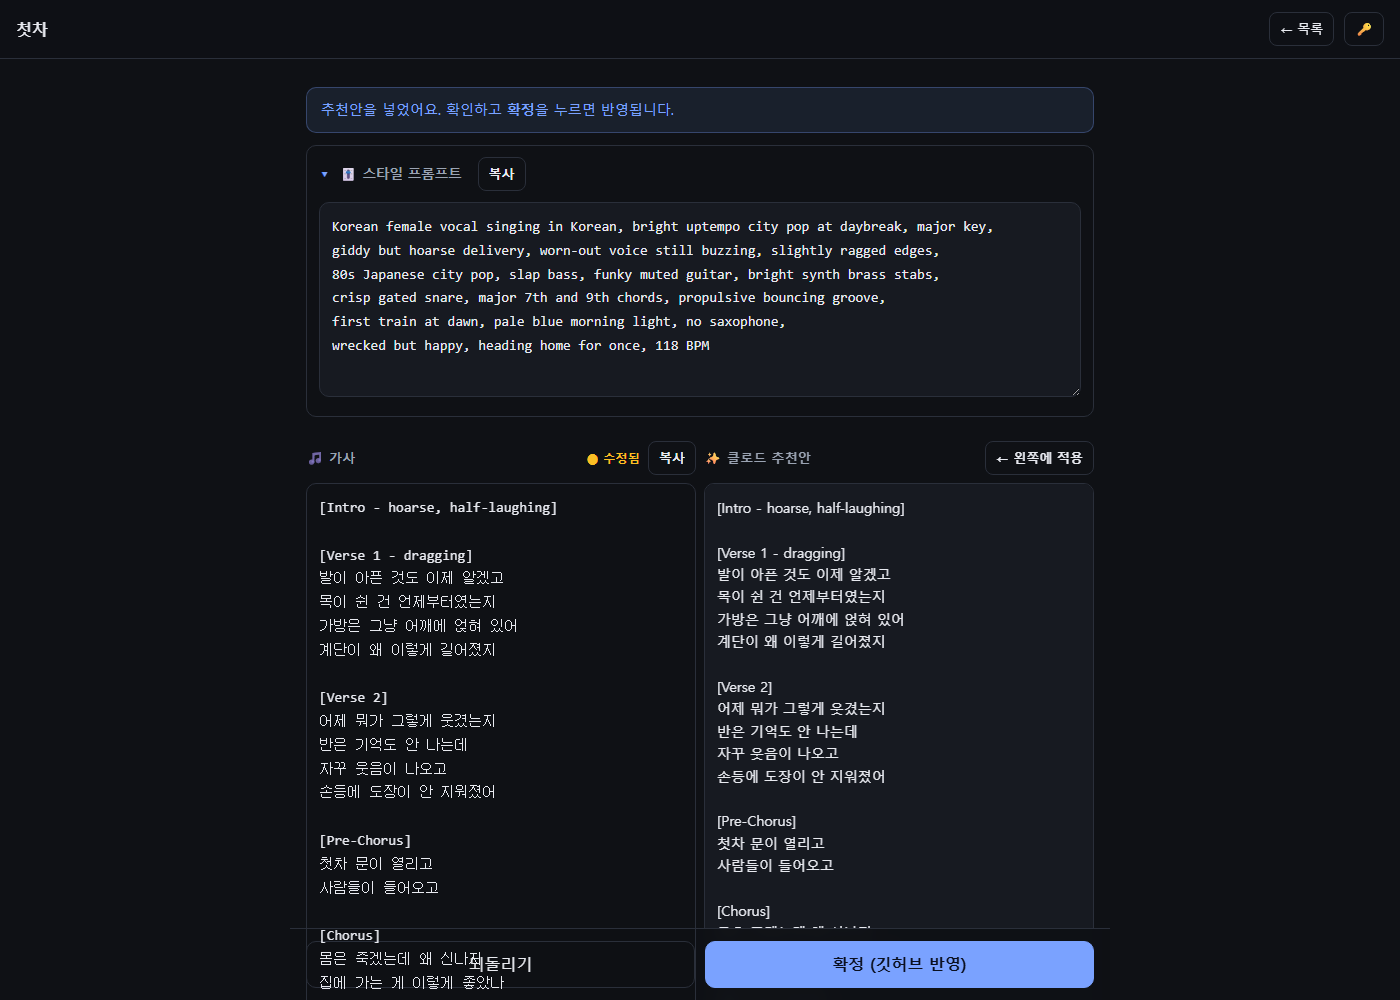
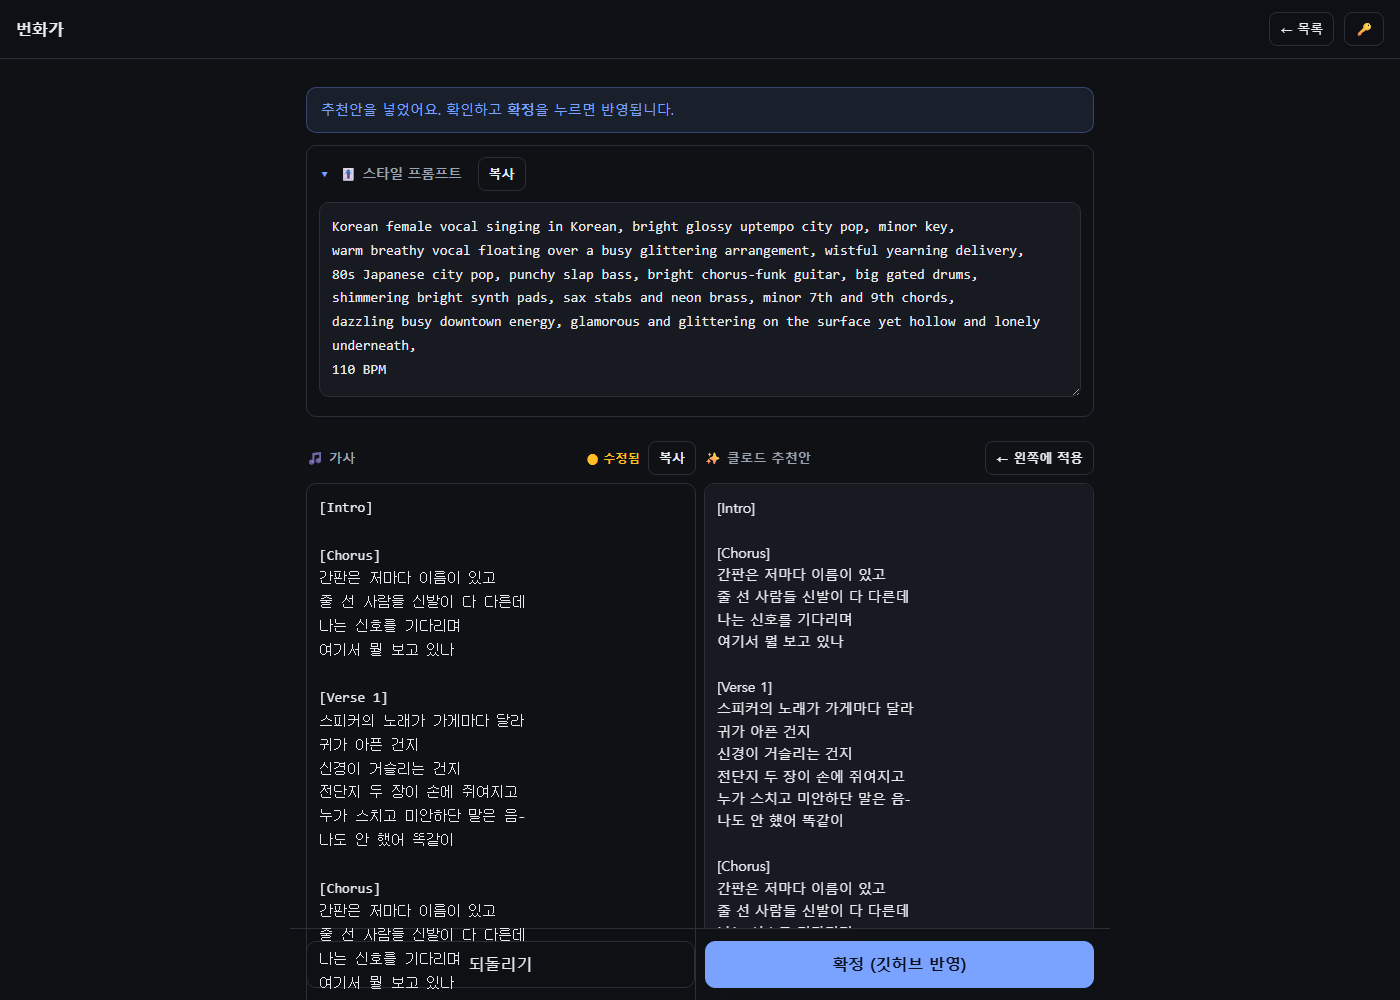
문서 뷰어에 마크다운 렌더러 — 표를 진짜 표로 그린다
원문을 그대로 뿌리고 있어서 표가 파이프 범벅으로 보였다. 폰에서 문서를 열면
읽을 수가 없었다. 우리 문서가 실제로 쓰는 문법만 직접 그린다 — 표·제목·인용·
목록·굵게·취소선·코드펜스·링크. 외부 라이브러리 없음.

보안: 무조건 escHtml 을 먼저 통과시킨 뒤 서식을 입힌다. 문서 안의 태그가
실행되면 안 된다. <br> 만 화이트리스트로 되살린다(표 안 줄바꿈용).
테스트에 <script>window.__pwned=1</script> 를 심어 실행 안 되는 것까지 확인.

표 폭 처리: width:100% 로 두면 6칸짜리 표가 폰 폭에 우겨넣어져 글자가 세로로
쪼개진다. width:max-content + min-width:100% 로 바꿔 내용에 맞춰 늘리고
넘치면 가로로 밀게 했다. 셀은 max-width:26ch 로 캡. 헤더는 sticky.

test_list_ui.py 확장: 표가 <table>/<th>/<td> 로 렌더되는지, 파이프와 별표가
화면에 안 새어나오는지, 인용·목록·제목 태그, script 미실행까지 검증.
(이전 패치 스크립트가 치환 성공을 assert 안 해서 픽스처가 안 바뀐 채
'통과'로 보였던 것도 이번에 잡음 — 직접 편집으로 교체)

회귀: 목록·렌더러 / 비교뷰 / 표절 오버레이 전부 통과, 갤러리 45건 통과

diff --git a/index.html b/index.html
@@ -45,8 +45,35 @@
   .listsep{display:flex;align-items:baseline;gap:8px;margin:26px 0 12px;
     padding-top:16px;border-top:1px solid var(--line);font-size:13px;color:var(--dim)}
   .listsep span{font-size:11px;opacity:.65}
-  .docbody{white-space:pre-wrap;word-break:break-word;font-size:14px;line-height:1.75;
-    background:var(--panel);border:1px solid var(--line);border-radius:14px;padding:16px}
+  .docbody{word-break:break-word;font-size:14px;line-height:1.75;
+    background:var(--panel);border:1px solid var(--line);border-radius:14px;padding:16px 14px}
+  .docbody h1,.docbody h2,.docbody h3,.docbody h4{line-height:1.4;margin:22px 0 10px}
+  .docbody h1{font-size:19px;border-bottom:1px solid var(--line);padding-bottom:8px}
+  .docbody h2{font-size:17px;border-bottom:1px solid var(--line);padding-bottom:6px}
+  .docbody h3{font-size:15px} .docbody h4{font-size:14px;color:var(--dim)}
+  .docbody>*:first-child{margin-top:0}
+  .docbody p{margin:10px 0}
+  .docbody ul,.docbody ol{margin:10px 0;padding-left:22px}
+  .docbody li{margin:4px 0}
+  .docbody hr{border:0;border-top:1px solid var(--line);margin:20px 0}
+  .docbody blockquote{margin:12px 0;padding:8px 12px;border-left:3px solid #3b4a63;
+    background:#12161d;border-radius:0 8px 8px 0;color:var(--dim)}
+  .docbody code{background:#12161d;border:1px solid var(--line);border-radius:5px;
+    padding:1px 5px;font-size:12.5px}
+  .docbody .mdcode{background:#0e1218;border:1px solid var(--line);border-radius:10px;
+    padding:12px;overflow-x:auto;font-size:12.5px;line-height:1.6;white-space:pre}
+  .docbody del{opacity:.5}
+  /* 표가 이 뷰어의 핵심 — 폰에서 좁으면 가로로 밀어 본다 */
+  .tablewrap{overflow-x:auto;margin:14px 0;border:1px solid var(--line);border-radius:10px;
+    -webkit-overflow-scrolling:touch}
+  /* width:100% 로 두면 6칸짜리 표가 폰 폭에 우겨넣어져 못 읽는다.
+     max-content 로 내용에 맞춰 늘리고 넘치면 가로로 민다. 좁은 표는 min-width 가 채운다. */
+  .docbody table{border-collapse:collapse;width:max-content;min-width:100%;font-size:13px}
+  .docbody th,.docbody td{border:1px solid var(--line);padding:8px 10px;
+    text-align:left;vertical-align:top;line-height:1.55;max-width:26ch}
+  .docbody th{background:#141a23;font-weight:600;white-space:nowrap;
+    position:sticky;top:0}
+  .docbody tbody tr:nth-child(even){background:#0f131a}
   .lbl{display:flex;align-items:center;gap:8px;margin:18px 0 8px;font-size:13px;
     color:var(--dim);font-weight:700;letter-spacing:.02em}
   .lbl .sp{flex:1}
@@ -173,7 +200,7 @@
   <!-- 문서 읽기 전용 -->
   <section id="viewDoc" class="hide">
     <div class="msg" id="docMsg"></div>
-    <pre id="docText" class="docbody"></pre>
+    <div id="docText" class="docbody"></div>
   </section>
 
   <!-- 편집 -->
@@ -239,6 +266,73 @@ function show(view){
   $('#btnBack').style.display = (view==='viewEdit'||view==='viewDoc') ? '' : 'none';
 }
 
+/* ---------- 마크다운 렌더 (문서 보기 전용) ----------
+   원문을 그대로 뿌리니 표가 파이프 범벅으로 보였다. 우리 문서가 실제로 쓰는 문법만
+   직접 그린다 — 표·제목·인용·목록·굵게·코드. 외부 라이브러리 없음.
+   ⚠ 무조건 escHtml 을 먼저 통과시킨 뒤 서식을 입힌다(원문의 태그가 실행되면 안 됨).
+      <br> 만 예외로 되살린다 — 표 안 줄바꿈에 쓴다. */
+function mdInline(s){
+  return s
+    .replace(/`([^`]+)`/g, '<code>$1</code>')
+    .replace(/\*\*([^*]+)\*\*/g, '<strong>$1</strong>')
+    .replace(/~~([^~]+)~~/g, '<del>$1</del>')
+    .replace(/(^|[^*])\*([^*\s][^*]*)\*/g, '$1<em>$2</em>')
+    .replace(/\[([^\]]+)\]\(([^)]+)\)/g, '<a href="$2" target="_blank" rel="noopener">$1</a>')
+    .replace(/&lt;br\s*\/?&gt;/g, '<br>');
+}
+function mdToHtml(src){
+  const L = escHtml(src.replace(/\r\n/g, '\n')).split('\n');
+  const out = [];
+  let i = 0, list = null;
+  const closeList = () => { if(list){ out.push(`</${list}>`); list = null; } };
+  const cells = r => r.trim().replace(/^\||\|$/g, '').split('|').map(c => c.trim());
+
+  while(i < L.length){
+    const line = L[i], t = line.trim();
+
+    if(/^```/.test(t)){                                   // 코드펜스
+      closeList(); const buf = []; i++;
+      while(i < L.length && !/^```/.test(L[i].trim())){ buf.push(L[i]); i++; }
+      i++; out.push('<pre class="mdcode">' + buf.join('\n') + '</pre>'); continue;
+    }
+    // 표: 헤더행 다음 줄이 |---|---| 형태여야 표로 친다
+    if(/^\|/.test(t) && i + 1 < L.length && /^\|[\s:|-]+\|?$/.test(L[i+1].trim())){
+      closeList();
+      const head = cells(line); i += 2; const rows = [];
+      while(i < L.length && /^\|/.test(L[i].trim())){ rows.push(cells(L[i])); i++; }
+      out.push('<div class="tablewrap"><table><thead><tr>'
+        + head.map(c => '<th>' + mdInline(c) + '</th>').join('')
+        + '</tr></thead><tbody>'
+        + rows.map(r => '<tr>' + r.map(c => '<td>' + mdInline(c) + '</td>').join('') + '</tr>').join('')
+        + '</tbody></table></div>');
+      continue;
+    }
+    if(/^(-{3,}|\*{3,})$/.test(t)){ closeList(); out.push('<hr>'); i++; continue; }
+    const h = t.match(/^(#{1,6})\s+(.*)$/);
+    if(h){ closeList(); const n = h[1].length;
+           out.push(`<h${n}>` + mdInline(h[2]) + `</h${n}>`); i++; continue; }
+    if(/^&gt;\s?/.test(t)){                               // 인용 (escape 후라 &gt;)
+      closeList(); const buf = [];
+      while(i < L.length && /^&gt;\s?/.test(L[i].trim())){ buf.push(L[i].trim().replace(/^&gt;\s?/, '')); i++; }
+      out.push('<blockquote>' + buf.map(mdInline).join('<br>') + '</blockquote>'); continue;
+    }
+    const li = t.match(/^([-*+]|\d+\.)\s+(.*)$/);
+    if(li){
+      const want = /^\d/.test(li[1]) ? 'ol' : 'ul';
+      if(list !== want){ closeList(); out.push(`<${want}>`); list = want; }
+      out.push('<li>' + mdInline(li[2]) + '</li>'); i++; continue;
+    }
+    if(!t){ closeList(); i++; continue; }
+    closeList();
+    const buf = [];                                       // 연속된 줄은 한 문단으로
+    while(i < L.length && L[i].trim() && !/^(\||#{1,6}\s|&gt;|```|-{3,})/.test(L[i].trim())
+          && !/^([-*+]|\d+\.)\s/.test(L[i].trim())){ buf.push(L[i].trim()); i++; }
+    out.push('<p>' + buf.map(mdInline).join('<br>') + '</p>');
+  }
+  closeList();
+  return out.join('\n');
+}
+
 /* 문서는 읽기만 한다 — 저장 UI 없음. 폰에서 기획·스터디 문서를 보려고 여는 자리다. */
 async function openDoc(f){
   show('viewDoc'); $('#hdr').textContent=f.name.replace(/\.md$/,'').replace(/_/g,' ');
@@ -247,7 +341,7 @@ async function openDoc(f){
   try{
     const d=await gh(`/repos/${OWNER}/${REPO}/contents/${f.path}?ref=main`);
     hideMsg($('#docMsg'));
-    $('#docText').textContent=b64d(d.content);
+    $('#docText').innerHTML=mdToHtml(b64d(d.content));
   }catch(e){ msg($('#docMsg'),'오류: '+e.message,'err'); }
 }
 function msg(el,text,kind){

diff --git a/test_list_ui.py b/test_list_ui.py
@@ -11,7 +11,17 @@ outdir.mkdir(exist_ok=True)
 
 SONGS = ["A01_네온.md", "A07_첫차.md", "B01_주말에.md"]
 DOCS  = ["기획_첫차_일탈.md", "작사_스터디_2차_5팀.md", "메타태그_다이내믹_가이드.md"]
-DOC_BODY = "# 기획 — 첫차\n\n한글이 깨지지 않아야 한다 · 토요일 아침\n"
+DOC_BODY = (
+    "# 기획 — 첫차\n\n"
+    "한글이 깨지지 않아야 한다 · 토요일 아침\n\n"
+    "| 곡 | BPM | 정서 |\n"
+    "|---|---|---|\n"
+    "| **막차** | 95 | 해학 |\n"
+    "| 첫차 | 118 | 즐거움 |\n\n"
+    "> 인용도 나와야 한다\n\n"
+    "- 목록 항목\n\n"
+    "<script>window.__pwned=1</script>\n"
+)
 SONG_BODY = "**Style of Music:**\n```\ntest style\n```\n\n## 가사\n\n```\n[Verse]\n테스트 가사\n```\n"
 
 b64 = lambda s: base64.b64encode(s.encode()).decode()
@@ -86,6 +96,15 @@ with sync_playwright() as p:
     pg.wait_for_timeout(600)
     body = pg.locator("#docText").inner_text()
     check("토요일 아침" in body, "한글 본문이 안 깨짐")
+    check(pg.locator("#docText table").count() == 1, "표가 진짜 <table> 로 렌더됨")
+    check(pg.locator("#docText th").count() == 3, f"표 헤더 3칸 (실제 {pg.locator('#docText th').count()})")
+    check(pg.locator("#docText td").count() == 6, f"표 본문 6칸 (실제 {pg.locator('#docText td').count()})")
+    check("|" not in body, "파이프 문자가 화면에 안 보임")
+    check("**" not in body, "굵게 표시가 별표로 안 새어나옴")
+    check(pg.locator("#docText h1").count() == 1, "제목이 <h1> 로 렌더됨")
+    check(pg.locator("#docText blockquote").count() == 1, "인용이 <blockquote> 로 렌더됨")
+    check(pg.locator("#docText li").count() == 1, "목록이 <li> 로 렌더됨")
+    check(pg.evaluate("window.__pwned === undefined"), "문서 속 script 태그가 실행되지 않음")
     check(pg.locator("#docMsg.show").count() == 0, "'가사 블록을 찾지 못했어요' 에러 없음")
     check(pg.locator("#viewEdit.hide").count() == 1, "편집 화면이 안 뜸")
     check(pg.locator("#btnCommit:visible").count() == 0, "[확정] 버튼 없음 (저장 불가)")
